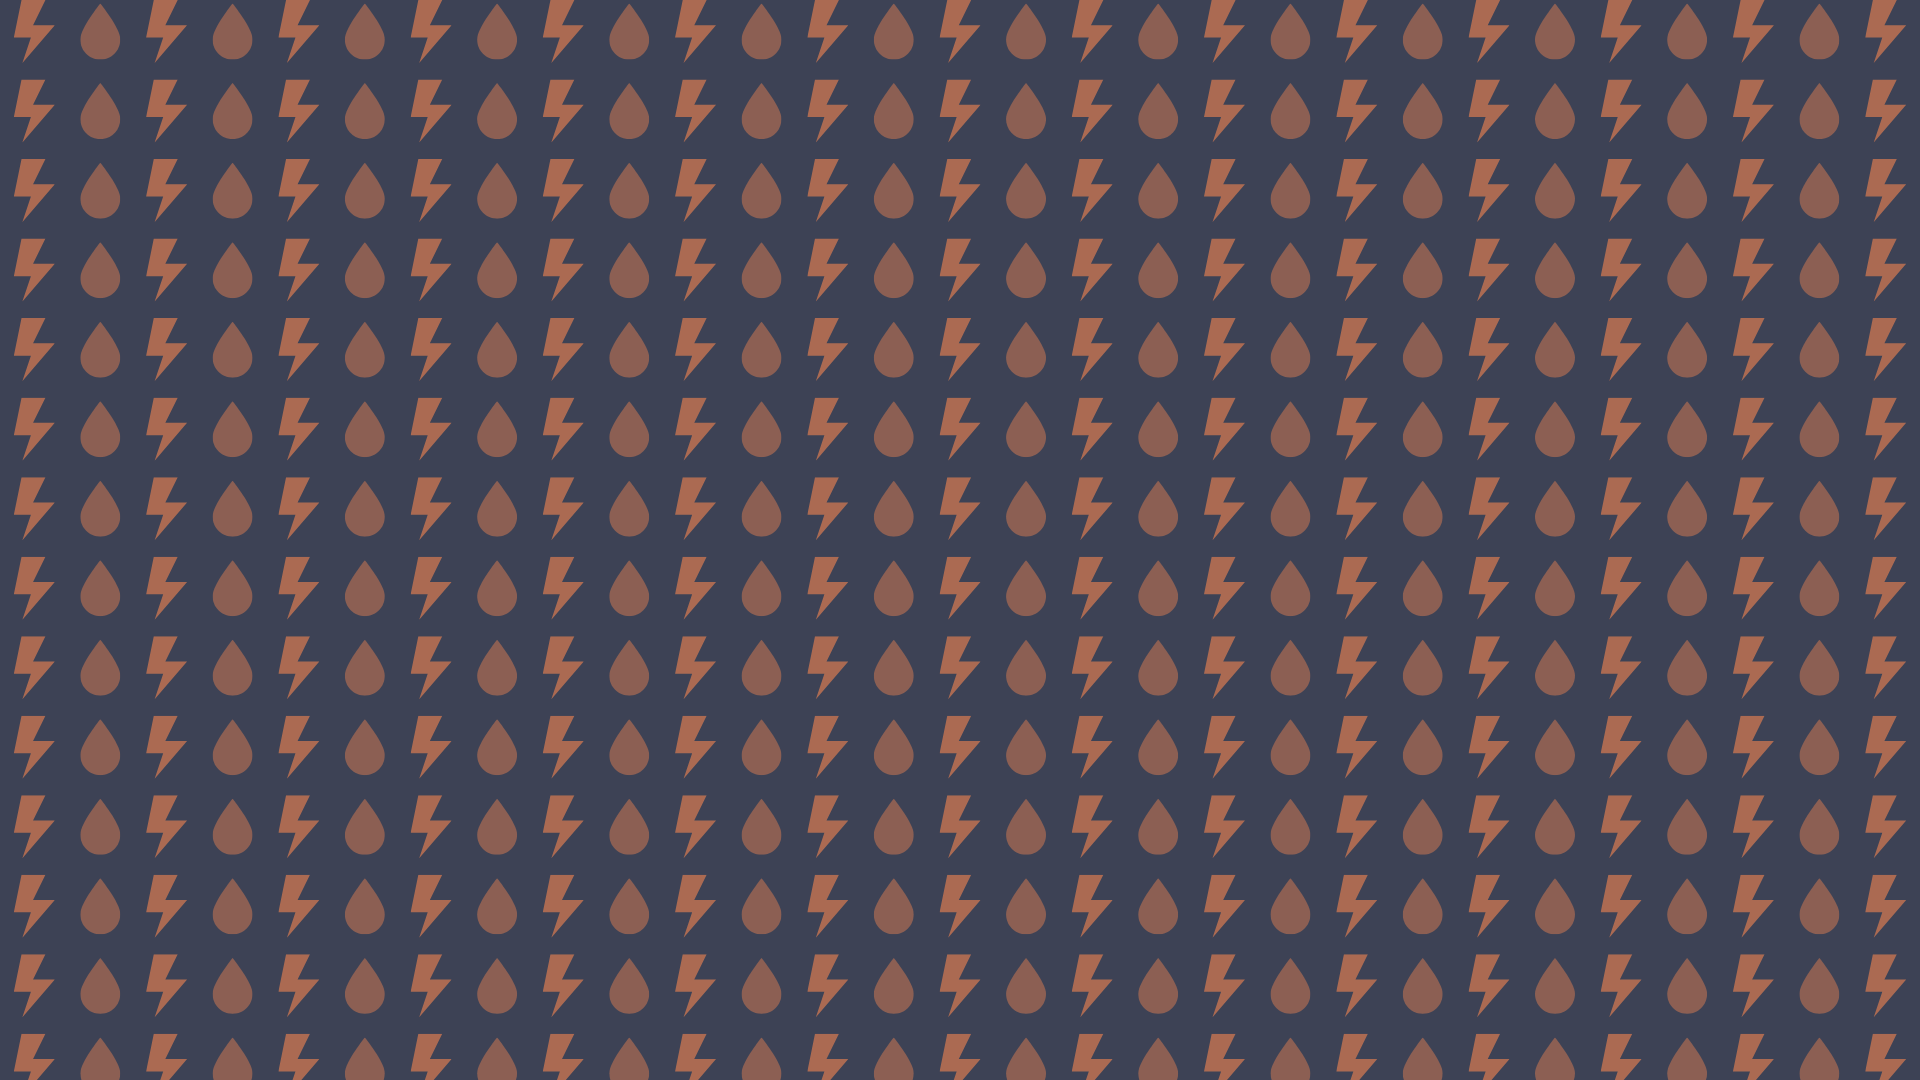
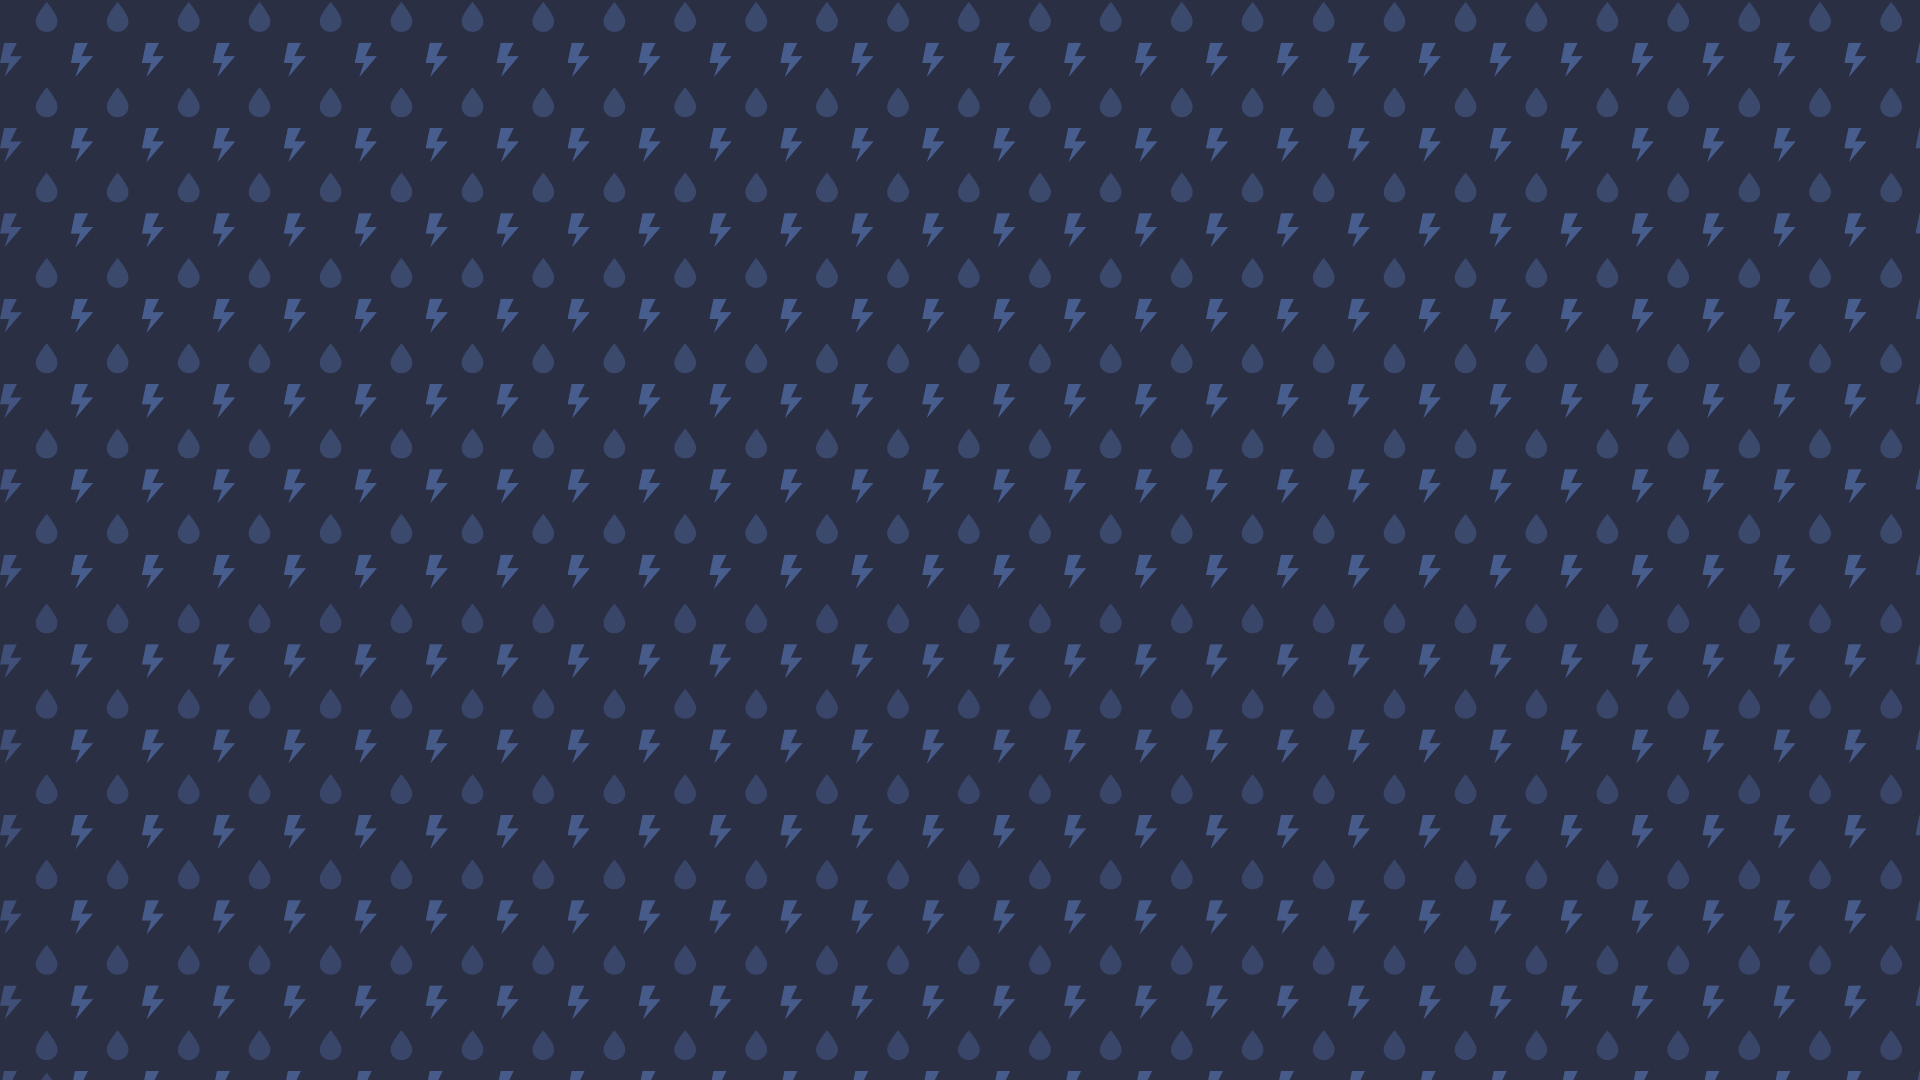
css ulit
ayos bg at nilagyan q back button

diff --git a/tlogin.php b/tlogin.php
@@ -5,116 +5,128 @@
     <meta name="viewport" content="width=device-width, initial-scale=1.0">
     <title>Tenant Login and Register</title>
     <style>
-              body {
-                    margin: 0;
-                    padding: 0;
-                    font-family: Arial, sans-serif;
-                    background: linear-gradient(135deg, #2A2F44 0%, #5B4C69 50%, #E68E8E 100%); /* Gradient background */
-                    display: flex;
-                    justify-content: center;
-                    align-items: center;
-                    height: 100vh;
-                    color: #FFFFFF;
-                }
+          body {
+            margin: 0;
+            padding: 0;
+            font-family: Arial, sans-serif;
+            background: url('bg.png') no-repeat center center fixed;
+            display: flex;
+            justify-content: center;
+            align-items: center;
+            height: 100vh;
+            color: #FFFFFF;
+            position: relative; /* Added for positioning the "Back to Home" button */
+        }
+        body::before {
+            content: '';
+            position: absolute;
+            top: 0;
+            left: 0;
+            width: 100%;
+            height: 100%;
+            background: linear-gradient(135deg, #2A2F44 0%, #5B4C69 50%, #E68E8E 100%);/* Gradient background */
+            opacity: 0.6; /* Adjust opacity for desired effect */
+            z-index: -1; /* Make sure the gradient is behind the content */
+        }
 
-                .form-container {
-                    width: 400px;
-                    background: #2A2F44; /* Solid white background for the form */
-                    border-radius: 10px;
-                    box-shadow: 0 10px 30px rgba(0, 0, 0, 0.3);
-                    overflow: hidden;
-                    padding: 20px;
-                    animation: fadeIn 1.5s ease-in-out;
-                }
+        .form-container {
+            width: 400px;
+            background: #2A2F44; /* Solid background for the form */
+            border-radius: 10px;
+            box-shadow: 0 10px 30px rgba(0, 0, 0, 0.3);
+            overflow: hidden;
+            padding: 20px;
+            animation: fadeIn 1.5s ease-in-out;
+        }
 
-                @keyframes fadeIn {
-                    from { opacity: 0; transform: translateY(20px); }
-                    to { opacity: 1; transform: translateY(0); }
-                }
+        @keyframes fadeIn {
+            from { opacity: 0; transform: translateY(20px); }
+            to { opacity: 1; transform: translateY(0); }
+        }
 
-                .form-header {
-                    background: linear-gradient(135deg, #5B4C69 0%, #2A2F44 100%); /* Gradient header background */
-                    color: #FFFFFF;
-                    padding: 15px;
-                    font-size: 24px;
-                    font-weight: bold;
-                    text-align: center;
-                }
+        .form-header {
+            background: linear-gradient(135deg, #5B4C69 0%, #2A2F44 100%); /* Gradient header background */
+            color: #FFFFFF;
+            padding: 15px;
+            font-size: 24px;
+            font-weight: bold;
+            text-align: center;
+        }
 
-                .form-section {
-                    padding: 20px;
-                    box-sizing: border-box;
-                }
+        .form-section {
+            padding: 20px;
+            box-sizing: border-box;
+        }
 
-                .form-section h2 {
-                    margin-bottom: 20px;
-                    color: #FFFFFF; /* Dark blue-gray */
-                }
+        .form-section h2 {
+            margin-bottom: 20px;
+            color: #FFFFFF; /* White text */
+        }
 
-                .form-group {
-                    margin: 15px 0;
-                    position: relative;
-                }
+        .form-group {
+            margin: 15px 0;
+            position: relative;
+        }
 
-                .form-group input {
-                    width: 100%;
-                    padding: 10px;
-                    padding-left: 40px;
-                    border: 1px solid #717D98; /* Muted blue border */
-                    border-radius: 5px;
-                    font-size: 16px;
-                    box-sizing: border-box;
-                    background: #FFFFFF; /* White background */
-                }
+        .form-group input {
+            width: 100%;
+            padding: 10px;
+            padding-left: 40px;
+            border: 1px solid #717D98; /* Muted blue border */
+            border-radius: 5px;
+            font-size: 16px;
+            box-sizing: border-box;
+            background: #FFFFFF; /* White background */
+        }
 
-                .form-group img {
-                    position: absolute;
-                    top: 50%;
-                    left: 10px;
-                    transform: translateY(-50%);
-                    width: 20px;
-                    height: 20px;
-                }
+        .form-group img {
+            position: absolute;
+            top: 50%;
+            left: 10px;
+            transform: translateY(-50%);
+            width: 20px;
+            height: 20px;
+        }
 
-                .button {
-                    width: 100%;
-                    padding: 10px;
-                    background: linear-gradient(135deg, #E68E8E 0%, #F1C6C6 100%); /* Gradient button background */
-                    color: #FFFFFF;
-                    border: none;
-                    border-radius: 5px;
-                    font-size: 18px;
-                    cursor: pointer;
-                    margin-top: 20px;
-                    transition: background-color 0.3s ease, transform 0.3s ease;
-                    box-sizing: border-box;
-                }
+        .button {
+            width: 100%;
+            padding: 10px;
+            background: linear-gradient(135deg, #E68E8E 0%, #F1C6C6 100%); /* Gradient button background */
+            color: #FFFFFF;
+            border: none;
+            border-radius: 5px;
+            font-size: 18px;
+            cursor: pointer;
+            margin-top: 20px;
+            transition: background-color 0.3s ease, transform 0.3s ease;
+            box-sizing: border-box;
+        }
 
-                .button:hover {
-                    background: linear-gradient(135deg, #E68E8E 0%, #F1C6C6 100%); /* Light pink on hover */
-                    transform: scale(1.05);
-                }
-                    .back-to-home {
-                position: absolute;
-                bottom: 20px;
-                right: 20px;
-                background: #5B4C69; /* Button color */
-                color: #FFFFFF; /* Text color */
-                padding: 10px 20px;
-                border: none;
-                border-radius: 5px;
-                font-size: 16px;
-                cursor: pointer;
-                text-decoration: none;
-                text-align: center;
-                transition: background-color 0.3s ease, transform 0.3s ease;
-            }
+        .button:hover {
+            background: linear-gradient(135deg, #E68E8E 0%, #F1C6C6 100%); /* Light pink on hover */
+            transform: scale(1.05);
+        }
 
-            .back-to-home:hover {
-                background: #E68E8E; /* Hover color */
-                transform: scale(1.05);
-            }
+        .back-to-home {
+            position: absolute;
+            bottom: 20px;
+            right: 20px;
+            background: #5B4C69; /* Button color */
+            color: #FFFFFF; /* Text color */
+            padding: 10px 20px;
+            border: none;
+            border-radius: 5px;
+            font-size: 16px;
+            cursor: pointer;
+            text-decoration: none;
+            text-align: center;
+            transition: background-color 0.3s ease, transform 0.3s ease;
+        }
 
+        .back-to-home:hover {
+            background: #E68E8E; /* Hover color */
+            transform: scale(1.05);
+        }
     </style>
 </head>
 <body>

diff --git a/lllogin.php b/lllogin.php
@@ -9,13 +9,24 @@
             margin: 0;
             padding: 0;
             font-family: Arial, sans-serif;
-            background: linear-gradient(135deg, #2A2F44 0%, #5B4C69 50%, #E68E8E 100%); /* Gradient background */
+            background: url('bg.png') no-repeat center center fixed;
             display: flex;
             justify-content: center;
             align-items: center;
             height: 100vh;
             color: #FFFFFF;
             position: relative; /* Added for positioning the "Back to Home" button */
+        }
+        body::before {
+            content: '';
+            position: absolute;
+            top: 0;
+            left: 0;
+            width: 100%;
+            height: 100%;
+            background: linear-gradient(135deg, #2A2F44 0%, #5B4C69 50%, #E68E8E 100%);/* Gradient background */
+            opacity: 0.6; /* Adjust opacity for desired effect */
+            z-index: -1; /* Make sure the gradient is behind the content */
         }
 
         .form-container {
